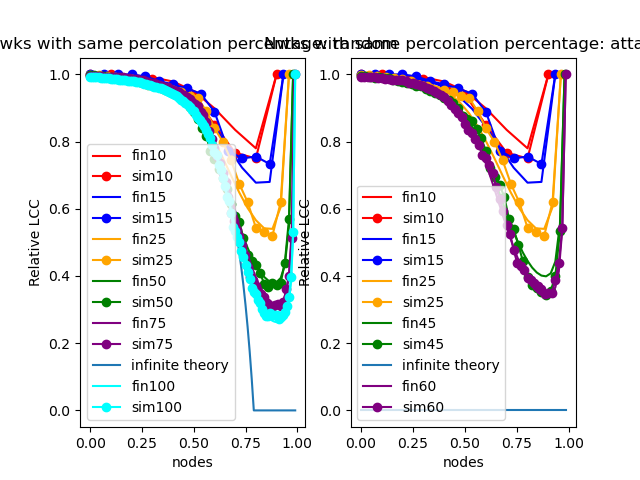
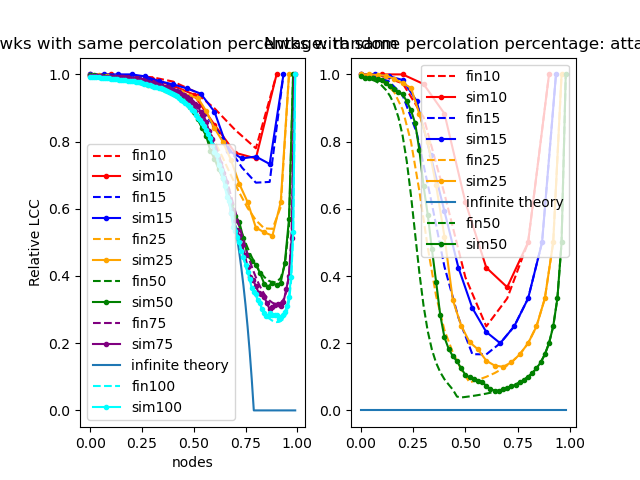
update

diff --git a/Figure 2.py b/Figure 2.py
@@ -60,13 +60,13 @@ for i_n in range(len(nodes_list)):
         #print(np.shape(all_inf))
         inf = all_inf[p_index]
         axs[0].plot(nodes_array, inf, label = "infinite theory")
-    axs[0].plot(nodes_array, fin, label = "fin" + str(n), color = colors[i_n])
-    axs[0].plot(nodes_array, sim, label = "sim"+str(n), marker = "o", color = colors[i_n])
+    axs[0].plot(nodes_array, fin, label = "fin" + str(n), linestyle = '--', color = colors[i_n])
+    axs[0].plot(nodes_array, sim, label = "sim"+str(n), marker = "o", ms = 3, color = colors[i_n])
     axs[0].set_title('Nwks with same percolation percentage: random')
     axs[0].set(xlabel='nodes', ylabel='Relative LCC')
     axs[0].legend(loc='lower left')
 
-nodes_list = [10,15,25,45,60]
+nodes_list = [10,15,25,50]
 probs_list = [(1/(n_threshold*(x-1))) for x in nodes_list]
 remove_bool = True
 
@@ -75,7 +75,7 @@ for i_n in range(len(nodes_list)):
     nodes_array = np.arange(n)/n
     p = round(probs_list[i_n], 2)
     p_index = int(p/.01 - 1)
-    all_sim = relSCurve_precalculated(n, p, targeted_removal=False, simulated=True, finite=False)
+    all_sim = relSCurve_precalculated(n, p, targeted_removal=True, simulated=True, finite=False)
     #print("allsim",i,j,all_sim)
     sim = np.zeros(n)
     #print("i",i)
@@ -83,7 +83,7 @@ for i_n in range(len(nodes_list)):
         sim = sim + np.transpose(all_sim[:,k][:n])
     sim = sim / n
     
-    fin = (relSCurve_precalculated(n, p, targeted_removal=False, simulated=False, finite=True)[:n])\
+    fin = (relSCurve_precalculated(n, p, targeted_removal=True, simulated=False, finite=True)[:n])
     
     if i_n == len(nodes_list)-1:
         path_name = "{}_attack{}_n{}.npy".format("infRelSCurve", remove_bool, n)
@@ -92,13 +92,17 @@ for i_n in range(len(nodes_list)):
         #print(np.shape(all_inf))
         inf = all_inf[p_index]
         axs[1].plot(nodes_array, inf, label = "infinite theory")
-    axs[1].plot(nodes_array, fin, label = "fin" + str(n), color = colors[i_n])
-    axs[1].plot(nodes_array, sim, label = "sim" + str(n), marker = 'o', color = colors[i_n])
+    axs[1].plot(nodes_array, fin, label = "fin" + str(n), linestyle = '--', color = colors[i_n])
+    axs[1].plot(nodes_array, sim, label = "sim" + str(n), marker = 'o', ms = 3, color = colors[i_n])
     axs[1].set_title('Nwks with same percolation percentage: attack')
-    axs[1].set(xlabel='nodes', ylabel='Relative LCC')
+    #axs[1].set(xlabel='nodes', ylabel='Relative LCC')
 
 plt.legend()
 plt.savefig("Fig 2 final")
+
+
+
+
 
 # colors = ['red','blue','orange','green','purple','cyan']
 # fig = plt.figure(figsize=(8, 8))

diff --git a/Figure 1.py b/Figure 1.py
@@ -29,13 +29,13 @@ fvals = pickle.load(open('data/fvalues.p', 'rb'))
 pvals = pickle.load(open('data/Pvalues.p', 'rb'))
 
 # random removals
-n=50
+n=20
 nodes = np.arange(n)/n
 p=.08
 p_index = int(p/.01 - 1)
 
 
-fig, axs = plt.subplots(1, 2)
+fig, axs = plt.subplots(1,2, figsize = [7,3.5])
 
 remove_bools = [False,True]
 
@@ -56,7 +56,7 @@ for i in range(len(remove_bools)):
 
     inf = infiniteTheory.relSCurve(n, p, attack=remove_bool, smooth_end=False)
 
-    fin_path = "{}_attack{}_n{}.npy".format("infRelSCurve", remove_bool, n)
+    fin_path = "{}_attack{}_n{}.npy".format("RelSCurve", remove_bool, n)
     fin_path = os.path.join("data", "synthetic_data", fin_path)
     all_fin = np.load(fin_path)
     fin = all_fin[p_index]
@@ -70,15 +70,22 @@ for i in range(len(remove_bools)):
             sim_data[i_nums] = data[j][i_nums]
         std = np.std(sim_data)
         #print(std)
-        std_table[j] = std
+        std_table[j] = std / 10 # 10 for standard error (sqrt100)
         sim_y[j] = np.nanmean(sim_data)
 
-    axs[i].errorbar(x=nodes, y=sim_y, yerr = std_table, label = "simulations")
-    axs[i].plot(nodes, inf, label = "infinite theory")
-    axs[i].plot(nodes, fin, label = "finite theory")
-    axs[i].set_title("Fin/Inf Theory: n=" + str(n) + ", p=" + str(p) + ", removal " + str(remove))
-    axs[i].set(xlabel='% nodes removed', ylabel='Rel LCC')
+    axs[i].errorbar(x=nodes, y=sim_y, yerr = std_table, label = "simulations", lw=1, color = "red")
+    axs[i].plot(nodes, inf, label = "infinite theory", color = "orange")
+    axs[i].plot(nodes, fin, label = "finite theory", color = "blue")
+    #axs[i].set_title("Fin/Inf Theory: n=" + str(n) + ", p=" + str(p) + ", removal " + str(remove))
+    axs[i].set(xlabel= r'$f$')
+    if i==0:
+        axs[i].set(ylabel= r'$\langle S \rangle $')
+    else:
+        axs[i].set_yticklabels([])
 
+axs[i].legend()
+
+plt.subplots_adjust(left=0.08, right=0.99, bottom=.15, top=0.99, wspace=.1)
 plt.savefig("Fig 1 final")
 
 # inf_rand_path = "{}_attack{}_n{}.npy".format("infRelSCurve", remove_bool, n)

diff --git a/Figure 4.py b/Figure 4.py
@@ -74,5 +74,6 @@ ax = plt.axes(projection ='3d')
 #ax.scatter(nodes_array, probs_array, mse_array)
 tri = mtri.Triangulation(nodes_array, probs_array)
 ax.plot_trisurf(nodes_array, probs_array, mse_array, triangles=tri.triangles, cmap=plt.cm.Spectral)
+
 ax.set_title('MSE over n and p')
 plt.show()
